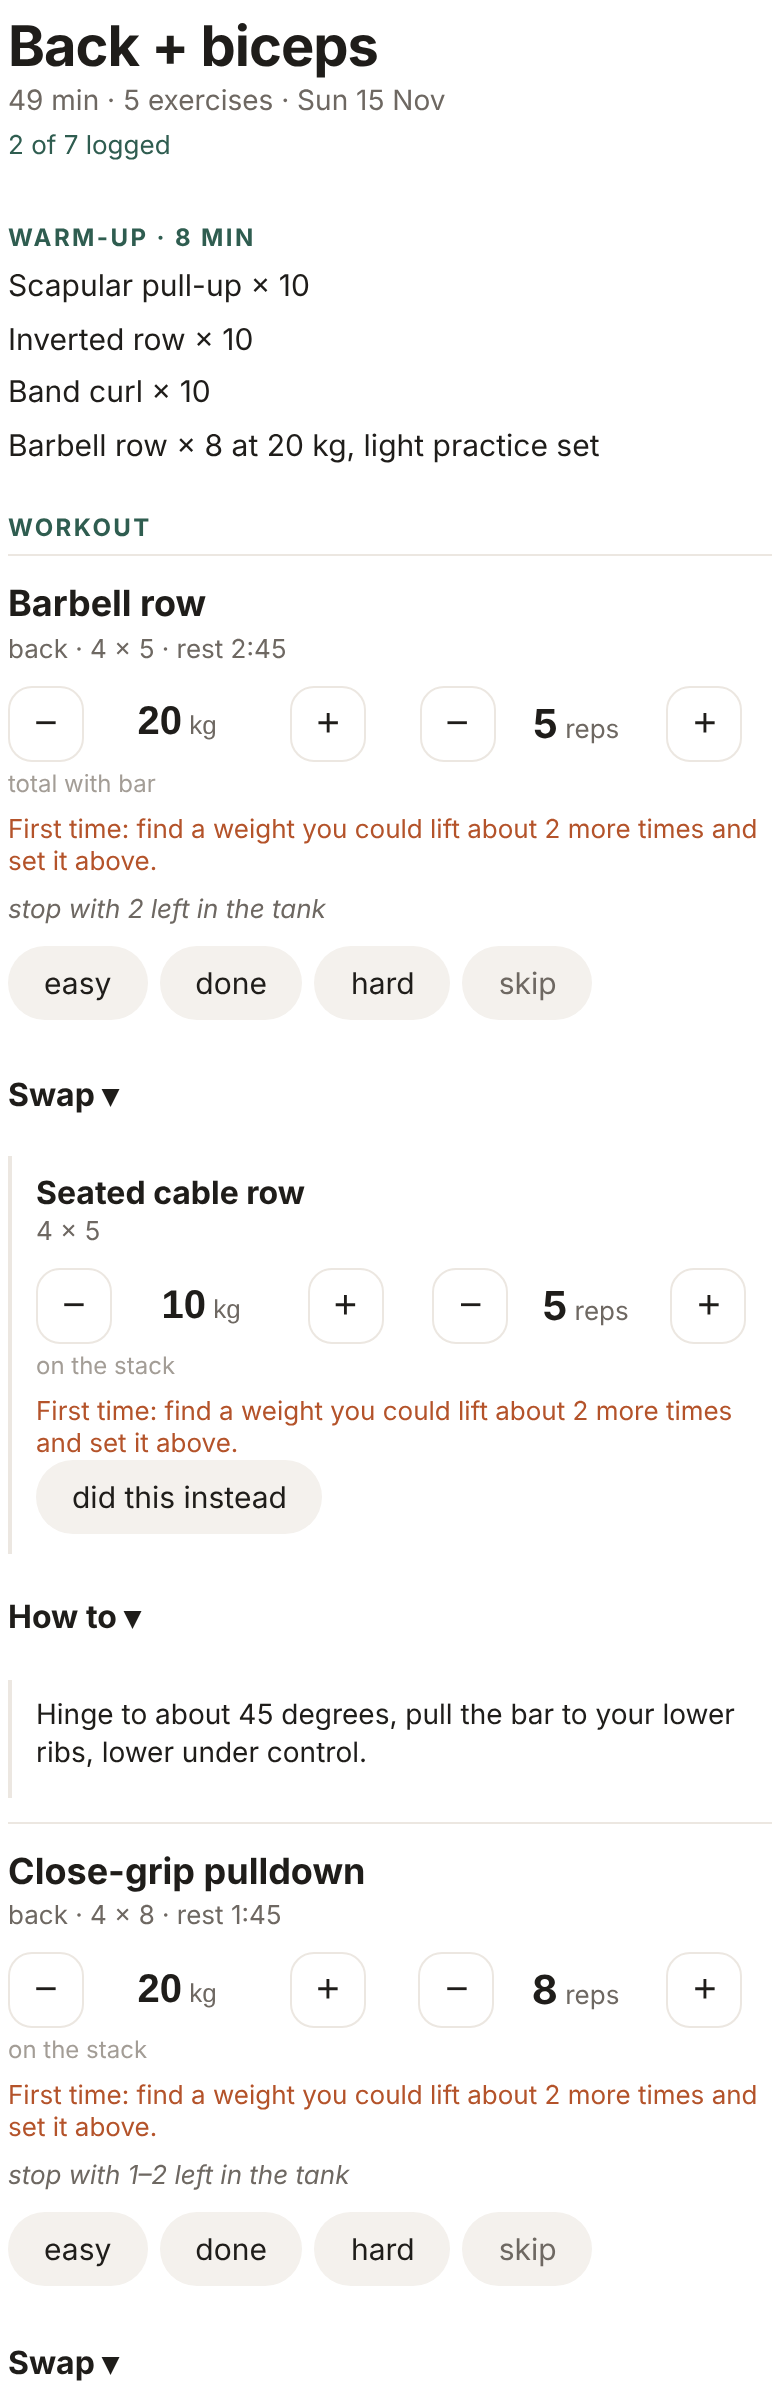
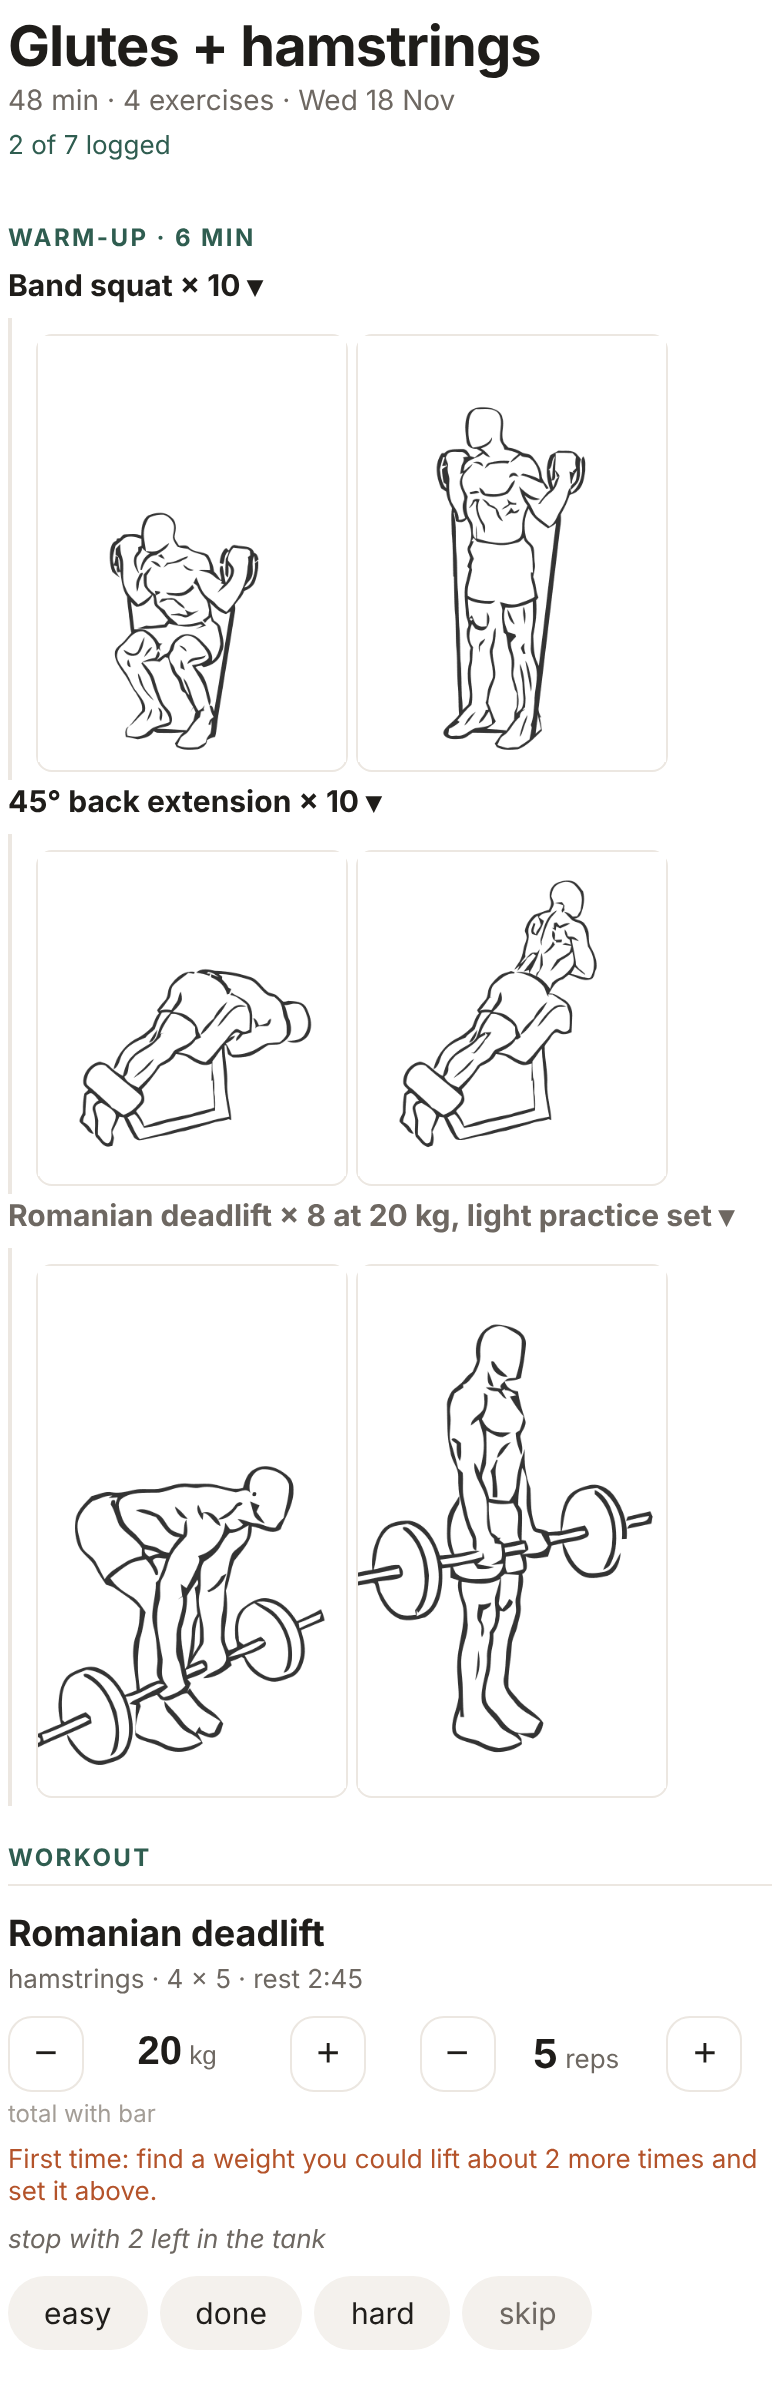
Exact drawings for every exercise, How to is the drawing alone; v2 goes live
- Only exercises with an exact Everkinetic drawing can be chosen; added
  reverse-grip row, neutral-grip chin-up, upright rows, band squat, crunch,
  leg raise and seated cable crunch, which have one. The hip thrust has none,
  so the glute day leads with a lunge or step-up
- How to shows the drawing and no words; warm-up lines open on theirs too
- A slot nothing can fill is left out, a sole exercise stays when due to
  rotate, and sets are trimmed rather than break a session cap
- No line under the weekly bars
- v2 is the default; PLAN_VERSION=1 switches back

Claude-Session: https://claude.ai/code/session_01A9d3e6oD2VWV9vHg66tuP8

diff --git a/src/email/amp.ts b/src/email/amp.ts
@@ -16,7 +16,7 @@
  */
 
 import { kg } from "../training/equipment";
-import type { Card, Mail, Numbers } from "./cards";
+import type { Card, Frame, Mail, Numbers } from "./cards";
 import { dose } from "./cards";
 
 export const C = {
@@ -45,7 +45,10 @@ body{margin:0;padding:0 4px;background-color:${C.paper};color:${C.ink};font-fami
 .ghost{margin:4px 0 0;padding:0;border:0;background-color:transparent;color:${C.accent};font-size:13px;font-weight:700}
 .sec{margin:18px 0 6px;font-size:12px;font-weight:700;letter-spacing:1.2px;color:${C.accent}}
 .warm{margin:0;padding:0 0 4px;font-size:15px;line-height:1.5}
-.warm .p{color:${C.muted}}
+.warm.p{color:${C.muted}}
+.warmups section{margin:0}
+.warmups h4{margin:0;padding:2px 0;border:0;background-color:${C.paper};font-size:15px;font-weight:400;line-height:1.5;color:${C.ink}}
+.warmups h4.p{color:${C.muted}}
 .card{padding:14px 0 12px;border-top:1px solid ${C.rule}}
 .name{margin:0;font-size:18px;font-weight:700;line-height:1.25}
 .meta{margin:2px 0 0;font-size:13px;color:${C.muted}}
@@ -73,12 +76,9 @@ body{margin:0;padding:0 4px;background-color:${C.paper};color:${C.ink};font-fami
 .more h4{margin:0;padding:4px 0;border:0;background-color:${C.paper};color:${C.accent};font-size:14px;font-weight:700}
 .inner{padding:8px 0 4px 12px;border-left:2px solid ${C.rule}}
 .inner .name{font-size:16px}
-.form{margin:0 0 8px;font-size:14px;line-height:1.4;color:${C.ink}}
-.why{margin:0 0 8px;font-size:13px;color:${C.muted}}
 .pics{width:100%;max-width:320px;border-collapse:collapse}
 .pics td{width:50%;padding:0 4px 0 0;vertical-align:top}
 .frame{border:1px solid ${C.rule};border-radius:8px}
-.shows{margin:0 0 6px;font-size:13px;color:${C.muted};font-style:italic}
 .hint{margin:8px 0 0;font-size:12px;color:${C.faint}}
 .tap.skip{color:${C.muted}}
 .end{margin:22px 0 0;padding:14px 0 0;border-top:1px solid ${C.rule}}
@@ -158,24 +158,40 @@ function taps(c: Card): string {
     .join("")}</div>`;
 }
 
-function howTo(mail: Mail, n: Numbers, why?: string): string {
-  const cells = mail.base
-    ? n.frames
-        .map(
-          (f) =>
-            `<td><div class="frame"><amp-img src="${esc(`${mail.base}/pictures/d/${encodeURIComponent(f.file)}`)}" alt="${esc(n.name)}" width="${f.width}" height="${f.height}" layout="responsive"></amp-img></div></td>`,
-        )
-        .join("")
-    : "";
-  if (!n.form && !cells) return "";
-  return `<section>
-<h4>How to &#9662;</h4>
-<div class="inner">${n.form ? `<p class="form">${esc(n.form)}</p>` : ""}${cells && n.drawingNote ? `<p class="shows">${esc(n.drawingNote)}</p>` : ""}${cells ? `<table class="pics" role="presentation"><tr>${cells}</tr></table>` : ""}${why ? `<p class="why">${esc(why)}</p>` : ""}</div>
-</section>`;
+/** The drawing, two frames small and side by side. */
+function pics(mail: Mail, frames: Frame[], name: string): string {
+  if (!mail.base || !frames.length) return "";
+  const cells = frames
+    .map(
+      (f) =>
+        `<td><div class="frame"><amp-img src="${esc(`${mail.base}/pictures/d/${encodeURIComponent(f.file)}`)}" alt="${esc(name)}" width="${f.width}" height="${f.height}" layout="responsive"></amp-img></div></td>`,
+    )
+    .join("");
+  return `<table class="pics" role="presentation"><tr>${cells}</tr></table>`;
+}
+
+/** How to: the drawing and nothing else. Every exercise has an exact one, so no words are needed. */
+function howTo(mail: Mail, n: Numbers): string {
+  const p = pics(mail, n.frames, n.name);
+  return p ? `<section>\n<h4>How to &#9662;</h4>\n<div class="inner">${p}</div>\n</section>` : "";
+}
+
+/** The warm-up: each line opens on its drawing. */
+function warmup(mail: Mail): string {
+  const sections = mail.warmup
+    .map((w) => {
+      const p = pics(mail, w.frames, w.name);
+      return p
+        ? `<section>\n<h4 class="warm${w.practice ? " p" : ""}">${esc(w.text)} &#9662;</h4>\n<div class="inner">${p}</div>\n</section>`
+        : "";
+    })
+    .filter(Boolean);
+  const plain = mail.warmup.filter((w) => !pics(mail, w.frames, w.name)).map((w) => `<p class="warm${w.practice ? " p" : ""}">${esc(w.text)}</p>`);
+  return `${sections.length ? `<amp-accordion class="warmups" animate>\n${sections.join("\n")}\n</amp-accordion>` : ""}${plain.join("\n")}`;
 }
 
 function card(mail: Mail, c: Card): string {
-  const how = howTo(mail, c.main, c.why);
+  const how = howTo(mail, c.main);
   const swap = c.swap
     ? `<section>
 <h4>Swap &#9662;</h4>
@@ -223,7 +239,6 @@ function week(mail: Mail): string {
   return `<div class="week">
 <p class="sec">THIS WEEK · SETS</p>
 <table role="presentation">${rows}</table>
-<p class="what">Dark is done since Sunday, light is today.</p>
 </div>`;
 }
 
@@ -255,7 +270,7 @@ export function composeAmp(mail: Mail): string {
 </div>
 ${changes(mail)}
 <p class="sec">WARM-UP · ${mail.warmupMinutes} MIN</p>
-${mail.warmup.map((w) => `<p class="warm${w.practice ? " p" : ""}">${esc(w.text)}</p>`).join("\n")}
+${warmup(mail)}
 <form id="save" method="post" action-xhr="${esc(mail.logUrl)}" on="submit-success:logged.refresh">
 <input type="hidden" name="kind" value="save">
 <p class="sec">WORKOUT</p>

diff --git a/src/training/build.ts b/src/training/build.ts
@@ -94,8 +94,8 @@ export async function buildSession(input: BuildInput): Promise<Built> {
   }
 
   // Which slots keep their exercise, and which may change.
-  const histories = sk.slots.map((slot) => slotHistory(slot.key, history));
-  const decisions: Decision[] = capRotations(
+  let histories = sk.slots.map((slot) => slotHistory(slot.key, history));
+  let decisions: Decision[] = capRotations(
     sk.slots.map((slot, i) => {
       const h = histories[i];
       const cur = h.current ? exercise(h.current) : undefined;
@@ -117,6 +117,8 @@ export async function buildSession(input: BuildInput): Promise<Built> {
     const exclude = d.previous ? [d.previous] : [];
     const ctx = { notes, now, equipment, history, taken: [...locked.values()], exclude };
     let list = candidates(slot, ctx);
+    // Due to rotate but nothing else fits (few exercises have exact drawings): it stays.
+    if (!list.length && exclude.length) list = candidates(slot, { ...ctx, exclude: [] });
     // No heavy lift left for this muscle (she disliked the only one, or the gym lacks it): a compound takes the slot.
     if (!list.length && slot.class === "heavy") {
       const lighter: Slot = { ...slot, class: "compound", reps: [...CLASS.compound.reps] as [number, number] };
@@ -124,6 +126,15 @@ export async function buildSession(input: BuildInput): Promise<Built> {
       list = candidates(lighter, ctx);
     }
     lists.set(slot.key, list);
+  }
+
+  // A slot nothing can fill (she disliked its only exercise, or the gym lacks the machine) is left out, not a failed workout.
+  const empty = new Set([...lists.entries()].filter(([, l]) => !l.length).map(([k]) => k));
+  if (empty.size) {
+    const keep = sk.slots.map((x) => !empty.has(x.key));
+    sk = { ...sk, slots: sk.slots.filter((_, i) => keep[i]), dropped: empty.size };
+    decisions = decisions.filter((_, i) => keep[i]);
+    histories = histories.filter((_, i) => keep[i]);
   }
 
   const open = sk.slots.filter((_, i) => decisions[i].mode === "open");
@@ -159,7 +170,7 @@ export async function buildSession(input: BuildInput): Promise<Built> {
       const distinct = (e: Exercise) =>
         e.class !== "isolation" || !families.has(family(e)) || !list.some((x) => !families.has(family(x)));
       const okBody = (e: Exercise) =>
-        (slot.finisher || !isBodyweight(e) || bodyweight < ROTATION.maxBodyweightPerSession) && underCap(e, slot.setCount) && distinct(e);
+        (slot.finisher || !isBodyweight(e) || bodyweight < ROTATION.maxBodyweightPerSession) && underCap(e, setsOf(slot.key)) && distinct(e);
       const p = picks.get(slot.key);
       let e = p ? list.find((x) => x.id === p.id && okBody(x)) : undefined;
       if (p && !e) {
@@ -177,6 +188,13 @@ export async function buildSession(input: BuildInput): Promise<Built> {
       }
       if (!e) e = list.find(okBody) ?? list[0];
       if (!e) throw new Error(`no candidate fits ${slot.key} (${slot.muscle}, ${slot.class})`);
+      // Nothing fits under a muscle's session cap (few exercises have exact drawings): fewer sets, down to two, rather than too many.
+      if (!underCap(e, setsOf(slot.key))) {
+        let n = setsOf(slot.key) - 1;
+        while (n > 2 && !underCap(e, n)) n--;
+        const key = slot.key;
+        sk = { ...sk, slots: sk.slots.map((x) => (x.key === key ? { ...x, setCount: n } : x)) };
+      }
       if (isBodyweight(e) && !slot.finisher) bodyweight++;
       chosen.set(slot.key, e.id);
       if (p?.why && e.id === p.id) why.set(slot.key, p.why);

diff --git a/src/training/skeleton.ts b/src/training/skeleton.ts
@@ -106,11 +106,11 @@ export const TEMPLATES: Record<SessionType, SlotSpec[]> = {
   ],
   glutes_hams: [
     s("glutes_hams", 1, "hamstrings", "heavy", ["hinge"], [3, 4], { glutes: 0.5 }),
-    // The hip thrust, not a second heavy hinge on top of the first lift.
-    s("glutes_hams", 2, "glutes", "heavy", ["hip_ext"], [3, 4], { hamstrings: 0.5 }),
+    // A glute-led lunge or step-up: the hip thrust has no accurate drawing, and a second heavy hinge would be too much.
+    s("glutes_hams", 2, "glutes", "compound", ["lunge", "hinge"], [3, 4], { hamstrings: 0.5 }),
     s("glutes_hams", 3, "hamstrings", "isolation", ["knee_flex"], [3, 4], {}, { preferStretched: true }),
     s("glutes_hams", 4, "glutes", "isolation", ["abduction", "hip_ext"], [2, 3], {}),
-    s("glutes_hams", 5, "glutes", "compound", ["lunge", "hip_ext"], [0, 3], { hamstrings: 0.5 }),
+    s("glutes_hams", 5, "glutes", "isolation", ["hip_ext"], [0, 3], { hamstrings: 0.5 }),
     ...finisher("glutes_hams", 6),
   ],
   chest_triceps: [
@@ -124,9 +124,10 @@ export const TEMPLATES: Record<SessionType, SlotSpec[]> = {
   quads_glutes: [
     s("quads_glutes", 1, "quads", "heavy", ["squat"], [3, 4], { glutes: 0.5 }),
     s("quads_glutes", 2, "quads", "compound", ["squat", "lunge"], [3, 4], { glutes: 0.5 }),
-    s("quads_glutes", 3, "glutes", "compound", ["hip_ext", "lunge"], [2, 3], { hamstrings: 0.5 }),
+    // Glutes by isolation here: the lunges with exact drawings also count fully for quads, which this day already has plenty of.
+    s("quads_glutes", 3, "glutes", "isolation", ["abduction", "hip_ext"], [2, 3], {}),
     s("quads_glutes", 4, "quads", "isolation", ["knee_ext"], [2, 4], {}),
-    s("quads_glutes", 5, "glutes", "isolation", ["abduction"], [0, 3], {}),
+    s("quads_glutes", 5, "glutes", "compound", ["lunge", "hinge"], [0, 3], { quads: 1 }),
     ...finisher("quads_glutes", 6),
   ],
   full: [
@@ -134,7 +135,7 @@ export const TEMPLATES: Record<SessionType, SlotSpec[]> = {
     s("full", 2, "chest", "compound", ["h_push"], [2, 3], PRESS),
     s("full", 3, "back", "compound", ["v_pull", "h_pull"], [2, 3], PULLDOWN),
     s("full", 4, "hamstrings", "compound", ["hinge"], [2, 3], { glutes: 0.5 }),
-    s("full", 5, "glutes", "compound", ["hip_ext", "lunge"], [2, 3], { hamstrings: 0.5 }),
+    s("full", 5, "glutes", "compound", ["hip_ext", "lunge", "hinge"], [2, 3], { hamstrings: 0.5 }),
     s("full", 6, "quads", "isolation", ["knee_ext"], [0, 3], {}),
     s("full", 7, "side_delts", "isolation", ["lateral_raise"], [0, 3], {}),
     s("full", 8, "biceps", "isolation", ["elbow_flex"], [0, 2], {}),
@@ -271,6 +272,8 @@ export interface Skeleton {
   index: number;
   deload: boolean;
   slots: Slot[];
+  /** Slots left out because nothing could fill them; the session may then be shorter. */
+  dropped?: number;
 }
 
 /** One session's slots, with sets from the cycle's balance and reps by class. */

diff --git a/src/email/cards.ts b/src/email/cards.ts
@@ -56,6 +56,8 @@ export interface WarmLine {
   name: string;
   text: string;
   practice: boolean;
+  /** Its drawing, under a tap like How to. */
+  frames: Frame[];
 }
 
 export interface Mail {
@@ -133,9 +135,10 @@ export function compose(input: {
   }));
   const warmup: WarmLine[] = plan.warmup.map((w) => {
     const name = exercise(w.exerciseId)?.name ?? w.exerciseId;
+    const frames = input.pictures(w.exerciseId).frames;
     return w.practice
-      ? { name, text: `${name} × ${w.reps} at ${w.weight === null ? "a light weight" : `${kg(w.weight)} kg`}, light practice set`, practice: true }
-      : { name, text: `${name} × ${w.reps}`, practice: false };
+      ? { name, text: `${name} × ${w.reps} at ${w.weight === null ? "a light weight" : `${kg(w.weight)} kg`}, light practice set`, practice: true, frames }
+      : { name, text: `${name} × ${w.reps}`, practice: false, frames };
   });
   const day = dateOnly(input.date);
   return {

diff --git a/src/training/check.ts b/src/training/check.ts
@@ -129,7 +129,7 @@ export function checkPlan(input: {
   const v = planVolume(plan);
   const working = plan.exercises.reduce((s, x) => s + (x.finisher ? 0 : x.sets), 0);
   const total = plan.exercises.reduce((s, x) => s + x.sets, 0);
-  if (!plan.deload && working < SESSION_SETS[0]) failures.push(`${working} working sets, under ${SESSION_SETS[0]}`);
+  if (!plan.deload && !skeleton.dropped && working < SESSION_SETS[0]) failures.push(`${working} working sets, under ${SESSION_SETS[0]}`);
   if (total > SESSION_SETS[1]) failures.push(`${total} sets, over ${SESSION_SETS[1]}`);
   for (const m of TARGETED)
     if ((v[m] ?? 0) > SESSION_MUSCLE_CAP + 1e-9) failures.push(`${v[m]} sets of ${m} in one session`);

diff --git a/src/training/catalogue.ts b/src/training/catalogue.ts
@@ -71,7 +71,12 @@ interface Banned {
 const ALL = data.exercises as unknown as (Exercise & { reviewed: boolean })[];
 const BANNED = (data.banned as Banned[]).map((b) => b.id);
 
-const REACHABLE: Exercise[] = ALL.filter((e) => e.reviewed && !BANNED.includes(e.id));
+/**
+ * Choosable: reviewed, not banned, and with an exact drawing. She learns each
+ * movement from its drawing alone, so an exercise without an accurate one is
+ * never offered (asked for on 16 November).
+ */
+const REACHABLE: Exercise[] = ALL.filter((e) => e.reviewed && !BANNED.includes(e.id) && !!e.drawing);
 const BY_ID = new Map(REACHABLE.map((e) => [e.id, e]));
 
 /** Every exercise that can be chosen. */

diff --git a/src/lib/v2.ts b/src/lib/v2.ts
@@ -43,7 +43,8 @@ import { weekStart } from "./when";
 
 const { workouts, feedback } = schema;
 
-export const v2On = () => process.env.PLAN_VERSION?.trim() === "2";
+/** Live from 17 November, her go-ahead: v2 is the app. PLAN_VERSION=1 switches back to the old one. */
+export const v2On = () => process.env.PLAN_VERSION?.trim() !== "1";
 
 /** "upper" means the next upper day in order, and so on; anything else, the next session. */
 export function positionFor(last: Position | null, focus: string | null): Position | undefined {

diff --git a/src/lib/checkin.ts b/src/lib/checkin.ts
@@ -42,7 +42,7 @@ export async function budgetFromCheckins(now = new Date()): Promise<number | und
 }
 
 export async function sendCheckinIfDue(now = new Date()): Promise<boolean> {
-  if (process.env.PLAN_VERSION?.trim() !== "2" || !isCheckinDay(now)) return false;
+  if (process.env.PLAN_VERSION?.trim() === "1" || !isCheckinDay(now)) return false;
   const to = process.env.OWNER_EMAIL?.trim();
   if (!to) return false;
   const token = randomBytes(18).toString("base64url");

diff --git a/src/training/rules.ts b/src/training/rules.ts
@@ -167,7 +167,8 @@ export const DELOAD = {
 
 /** The warm-up (spec §The warm-up; moderate for the practice set, Ribeiro 2020). */
 export const WARMUP = {
-  drills: [3, 4] as [number, number],
+  // Two to four: only drills with an exact drawing are used, and some muscles have two.
+  drills: [2, 4] as [number, number],
   drillReps: 10,
   /** The one light practice set of the first heavy lift. */
   practiceFraction: 0.5,

diff --git a/docs/v2-switch-over.md b/docs/v2-switch-over.md
@@ -1,8 +1,10 @@
 # Switching to v2
 
-The rebuild (spec: `docs/superpowers/specs/2026-11-13-workout-loop-v2-design.md`)
-is in the code behind one setting. Until it is switched on, bookings go
-through the old app exactly as before.
+**v2 is live since 17 November, on her go-ahead.** It is on by default; setting
+`PLAN_VERSION=1` in Vercel switches bookings back to the old app. The steps
+below are how it got there.
+
+The rebuild (spec: `docs/superpowers/specs/2026-11-13-workout-loop-v2-design.md`).
 
 ## 1. Deploy
 
@@ -31,11 +33,11 @@ typical gym stands in.
 
 ## 4. Switch on
 
-Set `PLAN_VERSION=2` in Vercel and redeploy. From the next booking, workouts
+Done in code: v2 is the default. From the next booking, workouts
 are v2. A workout already planned the old way finishes the old way. The
 monthly check-in starts going out on the first Sunday of the next month.
 
 ## Switching back
 
-Unset `PLAN_VERSION`. v2 workouts already sent keep logging to v2; new
+Set `PLAN_VERSION=1`. v2 workouts already sent keep logging to v2; new
 bookings go through the old app. Nothing is lost either way.

diff --git a/README.md b/README.md
@@ -1,13 +1,13 @@
 # Workout Loop
 
-> **v2, the rebuild, is in this branch behind `PLAN_VERSION=2`.** Design:
+> **v2, the rebuild, is live** (`PLAN_VERSION=1` switches back). Design:
 > [`docs/superpowers/specs/2026-11-13-workout-loop-v2-design.md`](docs/superpowers/specs/2026-11-13-workout-loop-v2-design.md);
 > evidence: [`docs/research/2026-11-progressive-overload.md`](docs/research/2026-11-progressive-overload.md);
 > switching over: [`docs/v2-switch-over.md`](docs/v2-switch-over.md). The engine is
 > `src/training` (code decides the session, the model only picks among checked
 > candidates, and a plan checker refuses any wrong-muscle exercise or off-target
 > warm-up), `src/memory` (her comments) and `src/email` (the new email). The rest of
-> this README describes the old app, which still runs until the switch.
+> this README describes the old app, which is still in the code until it is removed.
 
 Booking a gym slot produces a workout by email. Tapping done, easy, hard or
 skip under each exercise, inside the email, sets the weights for the next one.

diff --git a/docs/superpowers/specs/2026-11-13-workout-loop-v2-design.md b/docs/superpowers/specs/2026-11-13-workout-loop-v2-design.md
@@ -291,10 +291,11 @@ buttons move between those steps.
      only once she picks one.
    - **Swap** opens in place with the swap exercise, its own numbers, and
      "did this instead".
-   - **How to** opens one line on form and the Everkinetic sketch: two small
-     frames side by side, the set she chose. Sketches are shown only when
-     they are exactly the movement; the others show the line on form alone,
-     and exercises with an exact sketch are preferred when choosing.
+   - **How to** opens the Everkinetic sketch alone: two small frames side by
+     side, the set she chose, and no words. Every exercise that can be chosen
+     has an exact sketch (17 November): one without an accurate drawing is
+     never offered. That leaves out the hip thrust, so the glute day leads
+     with a lunge or step-up. Warm-up lines open on their sketches too.
    - On a first-time exercise, the weight shows "find it" until she sets it.
 5. **The abs finisher**, as cards, on lower days.
 6. **"Anything about today?"**, a comment box, then **one Save** for the
